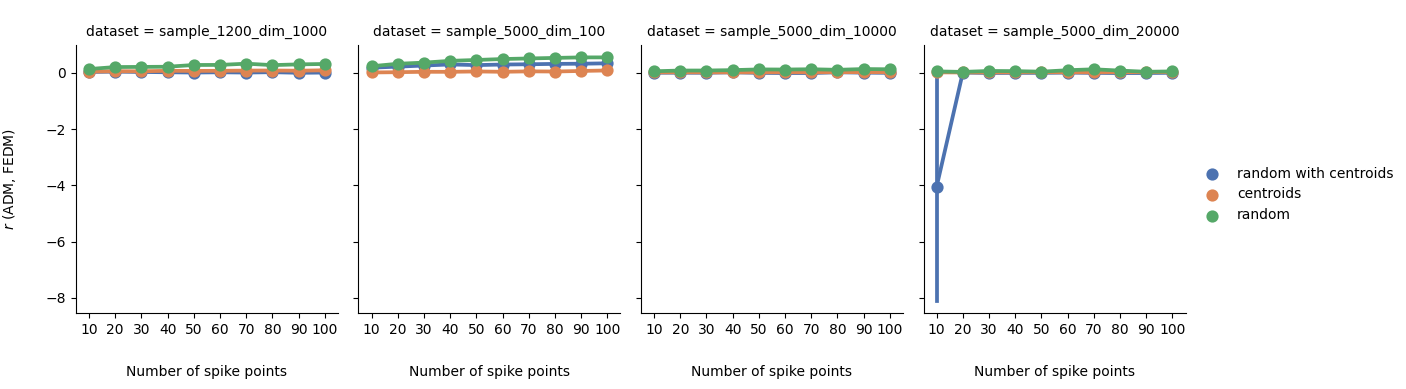
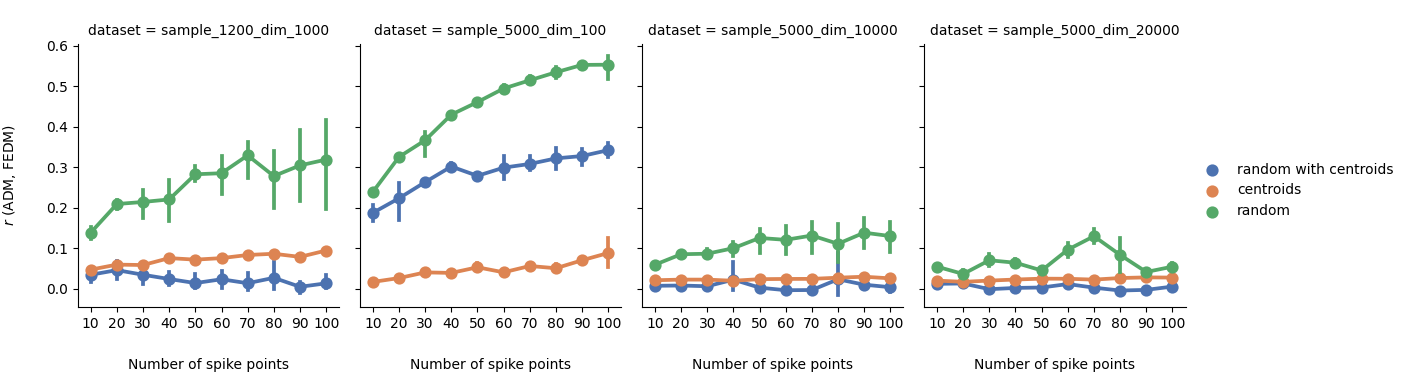
Please check FEDM_PEDM_using_N_centroids_blob.py

diff --git a/code/FEDM_PEDM_using_N_centroids_blob.py b/code/FEDM_PEDM_using_N_centroids_blob.py
@@ -1,18 +1,20 @@
 import random
 import sys
 import numpy as np
+import pandas as pd
 from sklearn.datasets import make_blobs
 from sklearn.metrics.pairwise import euclidean_distances
 import participant_utils as pu
 import coordinator_utils as cu
 from sklearn.cluster import KMeans
-
+import matplotlib.pyplot as plt
+import seaborn as sns
 
 # Declare for experimental purpose
 total_no_samples=5000
 D1_sample_size = random.randint(1, total_no_samples)
 D2_sample_size = total_no_samples - D1_sample_size
-dimension=20000
+dimension=10000
 # Create the dataset accordingly
 # D1, true_label_D1, spikes_D1 = make_blobs(n_samples=D1_sample_size,
 #                                           n_features=dimension, 
@@ -69,3 +71,16 @@ global_pred_euc_dist = cu.calc_pred_dist_matrix(global_Mx, global_fed_euc_dist, 
 
 cu.pearson_corr_coeff(global_true_euc_dist, global_fed_euc_dist, global_pred_euc_dist)
 cu.spearman_corr_coeff(global_true_euc_dist, global_fed_euc_dist, global_pred_euc_dist)
+
+
+adm_fedm = pd.DataFrame([global_true_euc_dist.flatten(), global_fed_euc_dist.flatten()], index=["Aggregated Distance Matrix", "Federated Distance Matrix"]).T.explode("Federated Distance Matrix")
+ax = sns.scatterplot(data=adm_fedm,x='Aggregated Distance Matrix',y='Federated Distance Matrix')
+
+ax.set_title(f"For, sample= {total_no_samples} and dimension= {dimension}", fontsize=15, fontweight='bold', pad=20)
+plt.savefig('artificial_uniform_sample_5000_dim_10000_ADM_FEDM_scatterplot')
+
+adm_pedm = pd.DataFrame([global_true_euc_dist.flatten(), global_pred_euc_dist.flatten()], index=["Aggregated Distance Matrix", "Predicted Distance Matrix"]).T.explode("Predicted Distance Matrix")
+ax = sns.scatterplot(data=adm_pedm,x='Aggregated Distance Matrix',y='Predicted Distance Matrix')
+
+ax.set_title(f"For, sample= {total_no_samples} and dimension= {dimension}", fontsize=15, fontweight='bold', pad=20)
+plt.savefig('artificial_uniform_sample_5000_dim_10000_ADM_PEDM_scatterplot')

diff --git a/code/participant_utils.py b/code/participant_utils.py
@@ -42,21 +42,6 @@ def regression_per_client(data, euc_dist_data_spike, regressor="Huber"):
         model = TheilSenRegressor().fit(local_fed_dist,euc_dist_data)
         return [model.coef_.item(),model.intercept_]
 
-# def generate_spikes_each_participant(dataset, dimension_based=False, reduce= 1, induce= 1):
-#     dimension = dataset.shape[1]
-#     if dimension_based == False:
-#         no_of_spikes = np.floor((np.sqrt(dimension))/reduce).astype(int) if np.floor(np.sqrt(dimension)).astype(int) < np.floor(np.sqrt(dataset.shape[0])).astype(int) else np.floor((np.sqrt(dataset.shape[0]))/reduce).astype(int) 
-#         generated_spikes = np.random.uniform(low=np.min(dataset, axis=0),
-#                                              high=np.max(dataset, axis=0),
-#                                              size=(no_of_spikes*induce, dimension))
-#         return generated_spikes
-#     else:
-#         no_of_spikes = np.floor((np.sqrt(dimension))/reduce).astype(int)
-#         generated_spikes = np.random.uniform(low=np.min(dataset, axis=0),
-#                                              high=np.max(dataset, axis=0),
-#                                              size=(no_of_spikes*induce, dimension))
-#         return generated_spikes
-
 def perform_PCA(dimension, dataset):
     pca = PCA(n_components= dimension)
     return pca, pca.fit_transform(dataset)

diff --git a/code/plotting.py b/code/plotting.py
@@ -27,9 +27,9 @@ boxplot_GSE84433_N_generated_spikes_and_centroids_results = pd.read_csv(boxplot_
 lineplot_file_path = Path(__file__).parent / "../result/GSE84426_lineplot_results.csv"
 lineplot_results = pd.read_csv(lineplot_file_path)
 
-g = sns.FacetGrid(data=artificial_non_uniform_results, col="dataset")
+g = sns.FacetGrid(data=artificial_uniform_results, col="dataset")
 g.map_dataframe(sns.pointplot, 
-      "no_of_spikes", "spearman_ADM_PEDM",
+      "no_of_spikes", "pearson_ADM_FEDM",
       hue="method", palette='deep')
 g.add_legend()
 
@@ -38,7 +38,7 @@ g.add_legend()
 #              r'$\mathit{r}$ (ADM, PEDM)'
 #              r'$\rho$ (ADM, PEDM)'
 g.set_xlabels("Number of spike points", labelpad=20)
-g.set_ylabels(r'$\rho$ (ADM, PEDM)', labelpad=20)
+g.set_ylabels(r'$\mathit{r}$ (ADM, FEDM)', labelpad=20)
 plt.show()
 
 # sns.catplot(x='no_of_spikes', y='pearson_ADM_PEDM', hue='method', data=artificial_non_uniform_results, kind='point', col='dataset')
